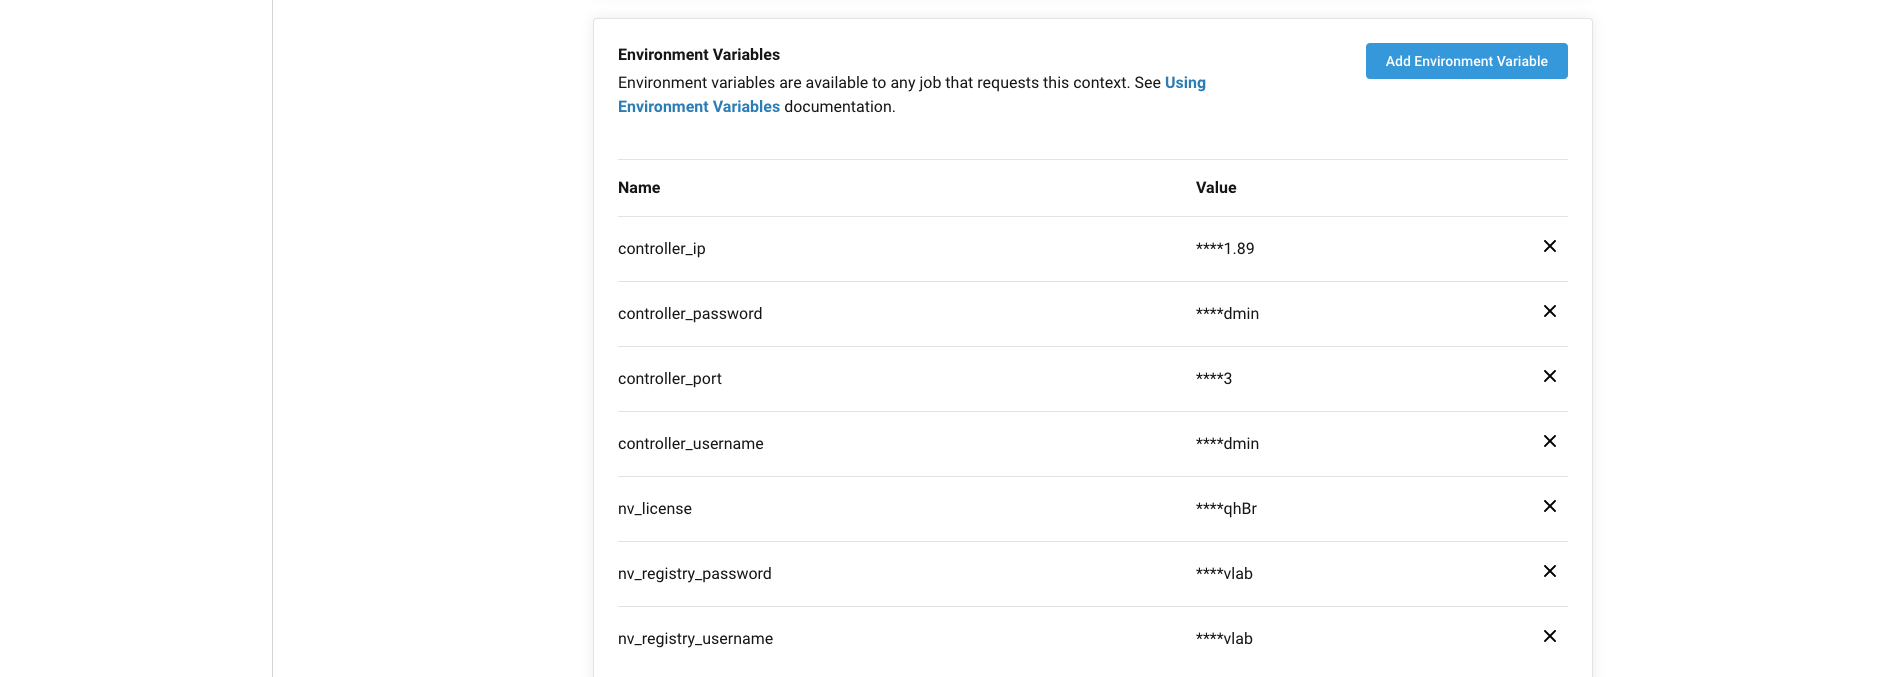
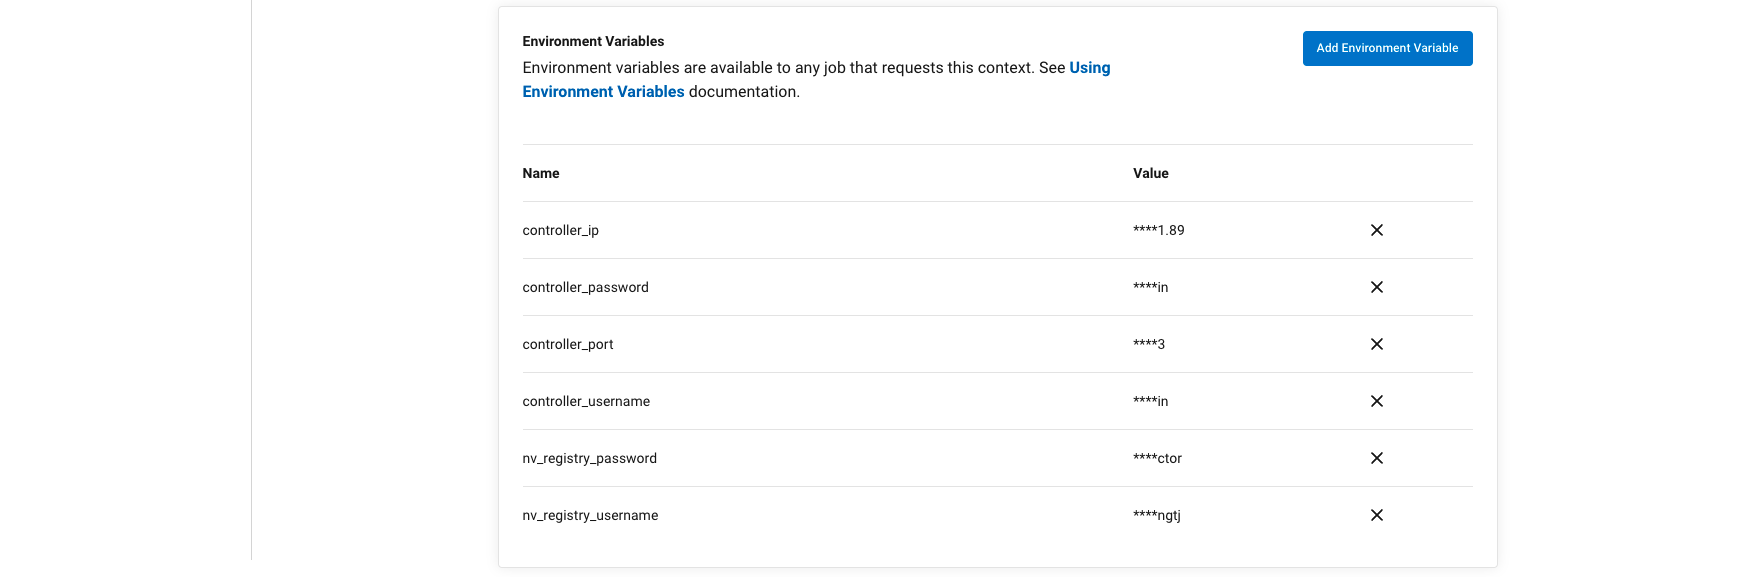
remove the license and update the orb version to 1.1.0

diff --git a/README.md b/README.md
@@ -3,7 +3,7 @@
 
 This orb provides NeuVector vulnerability scanning to your CircleCI workflows.
 
-NeuVector supports scanning images locally and/or from a registry.
+NeuVector supports the local image scan and the registry scan.
 
 ## Setup:
 
@@ -11,7 +11,7 @@ NeuVector supports scanning images locally and/or from a registry.
 
 ![Set context](images/context.png?raw=true)
 
-### 2. Add environment variables `controller_ip`, `controller_port`, `controller_username`, `controller_password`, `nv_license`, `nv_registry_username`, `nv_registry_password` to the context.
+### 2. Add environment variables `controller_ip`, `controller_port`, `controller_username`, `controller_password`, `nv_registry_username`, `nv_registry_password` to the context.
 
 ![Set env](images/env.png?raw=true)
 
@@ -20,25 +20,23 @@ NeuVector supports scanning images locally and/or from a registry.
 ```
 orbs:
   neuvector: neuvector/neuvector-orb@x.y.z
-(Where x.y.z is the current orb versio)
+  (x.y.z is the orb version number.)
 ```
 
-Add neuvector/scan-image with parameters to your current workflow.
+Add the job "neuvector/scan-image" to the circleCI workflow.
 
 Usage examples:
 
-#### a. Scan an image from a public registry
+#### a. Scan the image at a public registry
 
-The registry_url is the public registry where the image is stored.
+The registry_url is url of the public registry.
 
-(Optional) Set up your vulnerability criteria to fail the build. 
-
-It will fail if the number of high or medium vulnerability found in your image exceeds the criteria.
+The job "neuvector/scan-image" will fail when the number of high or medium vulnerability found in your image exceeds the criteria.
 
 ```
 version: 2.1
 orbs:
-  neuvector: neuvector/neuvector-orb@1.0.2
+  neuvector: neuvector/neuvector-orb@1.1.0
 workflows:
   scan-image:
     jobs:
@@ -52,25 +50,23 @@ workflows:
           medium_vul_to_fail: 3
 ```
 
-#### b. Scan an image from a private registry
+#### b. Scan the image at the private registry
 
 Add variables "registry_username" and "registry_password" to the project
 ![Set env](images/env2.png?raw=true)
 
-The registry_url is your private registry. 
+The registry_url is the url of the private registry.
 
-The registry_username is the login user of your private registry. 
+The registry_username is the login user of your private registry.
 
 The registry_password is the login password of your private registry.
 
-(Optional) Set up your vulnerability criteria to fail the build. 
-
-It will fail if the number of high or medium vulnerability found in your image exceeds the criteria.
+The job "neuvector/scan-image" will fail when the number of high or medium vulnerability found in your image exceeds the criteria.
 
 ```
 version: 2.1
 orbs:
-  neuvector: neuvector/neuvector-orb@1.0.2
+  neuvector: neuvector/neuvector-orb@1.1.0
 workflows:
   scan-image:
     jobs:
@@ -86,22 +82,22 @@ workflows:
           medium_vul_to_fail: 3
 ```
 
-#### c. Scan an image from a CircleCI build job
+#### c. Scan the local image built in the CircleCI job "build_image"
 
-The boolean parameter scan_local_image is an indicator to scan the image on the same host. Set it to true.
+To scan the image on the same host, you need to set scan_local_image as true.
 
-The image_tar_file is the tar archive where the image to be scanned is stored.
+The image needs to be saved as a tar archive file and set the image_tar_file.
 
 The path is the directory where the tar archive file is stored.
 
-The image_name is the name of the image to be scanned.
+The image_name is the name of the to-be-scanned image.
 
-The image_tag is the tag name of the image to be scanned.
+The image_tag is the tag of the to-be-scanned image.
 
 ```
 version: 2.1
 orbs:
-  neuvector: neuvector/neuvector-orb@1.0.2
+  neuvector: neuvector/neuvector-orb@1.1.0
 workflows:
   scan-image:
     jobs:
